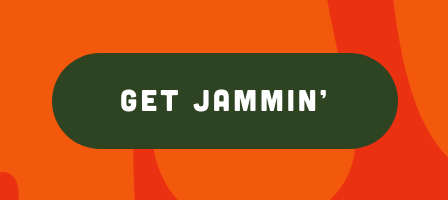
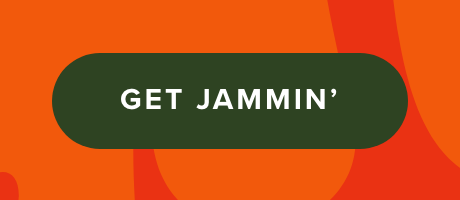
QA: all pill buttons take Proxima Nova
Get Jammin' joins Our Story in the body face so the two match, per the
client. That is also the consistent reading of the global row's unstruck
tail -- "includes button text" -- alongside the About CVR row naming Our
Story specifically.

Set on the shared pill() helper rather than per-button. The previous pass
overrode Our Story alone and the two pills visibly disagreed; putting it
in one place means they cannot drift apart again.

Overrides the Figma, which binds Cubano-Regular to both. QA is the later
record and the client has ruled it wins.

Store Locator picked up a real fix on the way. It was asking for weight
800, which the Adobe kit does not carry, so the browser synthesised it.
The design binds ProximaNova-Bold at 700; it now renders the actual
weight rather than a faux-bold approximation. All three pills agree.

Headings are untouched and remain Cubano -- checked, not assumed.
"Explore Jammy" on the homepage stays DIN Condensed: QA item 1 asks that
button to match the site's other buttons, a different instruction.

123/123 assertions, plus the copy audit at 5/5.

diff --git a/components/jammy/JammyLanding.js b/components/jammy/JammyLanding.js
@@ -100,6 +100,17 @@ const FAQS = [
   },
 ];
 
+/* QA (global): "Fonts should be Proxima Nova and Cubano throughout" -- the
+   struck-through row keeps an unstruck tail, "includes button text". Read with
+   the About CVR row ("Our Story button text should be Proxima Nova"), that
+   puts the pill buttons in the body face.
+
+   This overrides the Figma, which binds Cubano-Regular to both Our Story and
+   Get Jammin'. QA is the later record and the client has ruled it wins.
+
+   Set here rather than per-button so the pills stay matched: an earlier pass
+   changed only Our Story and the two visibly disagreed. Store Locator is
+   ProximaNova-Bold in the design, so all three now agree. */
 const pill = (bg = C.forest) => ({
   display: "inline-flex",
   alignItems: "center",
@@ -109,7 +120,8 @@ const pill = (bg = C.forest) => ({
   borderRadius: 999,
   background: bg,
   color: "#fff",
-  fontFamily: DISPLAY,
+  fontFamily: BODY,
+  fontWeight: 700,
   fontSize: 15,
   letterSpacing: "1.5px",
   textTransform: "uppercase",
@@ -270,11 +282,12 @@ export function JammyLanding() {
             href="/store-locator"
             data-lift="1"
             style={{
+              // Face and weight come from pill(). This asked for 800, which
+              // the kit does not carry -- the browser was synthesising it.
+              // The Figma binds ProximaNova-Bold here, which is 700.
               ...pill(),
               height: 46,
               padding: "0 30px",
-              fontFamily: BODY,
-              fontWeight: 800,
             }}
           >
             Store Locator
@@ -1255,23 +1268,12 @@ export function JammyLanding() {
             should be easier, exciting, and a lot more fun.
           </p>
           {/* QA (About CVR): "Our Story button text should be Proxima Nova."
-              The Figma binds Cubano-Regular to this node, but QA is the later
-              record and overrides the design file where they disagree.
-
-              Note the knock-on: Get Jammin' is also Cubano-Regular in the
-              design, so this button no longer matches it. That is a real
-              consequence of the instruction, not an oversight -- raised with
-              NW in docs/qa-evidence/AUDIT.md. */}
+              Comes from pill() now, so every pill button matches. */}
           <a
             href="/our-family"
             data-lift="1"
             className="jammy-reveal"
-            style={{
-              ...pill(),
-              padding: "0 38px",
-              fontFamily: BODY,
-              fontWeight: 700,
-            }}
+            style={{ ...pill(), padding: "0 38px" }}
           >
             Our Story
           </a>

diff --git a/scripts/qa/jammy/item17.js b/scripts/qa/jammy/item17.js
@@ -21,20 +21,20 @@ const R=[];const ck=(n,p,d='')=>{R.push(p);console.log(`${p?'PASS':'FAIL'}  ${n}
             jamFf:jam?getComputedStyle(jam).fontFamily.split(',')[0]:null,
             slFf:sl?getComputedStyle(sl).fontFamily.split(',')[0]:null};
   });
-  // QA: "Our Story button text should be Proxima Nova." The Figma binds
-  // Cubano-Regular to this node, but QA is the later record and overrides the
-  // design file. Knock-on: Get Jammin' is also Cubano-Regular in the design,
-  // so the two pills no longer match -- a consequence of the instruction,
-  // raised with NW rather than silently reconciled.
+  // QA's global row keeps an unstruck tail, "includes button text", and the
+  // About CVR row names Our Story specifically. Applied to pill() so every
+  // pill button takes Proxima Nova and they stay matched. Overrides the
+  // Figma, which binds Cubano-Regular to Our Story and Get Jammin'.
   ck('Our Story is Proxima Nova (QA over Figma)', d.ff==='proxima-nova', d.ff);
   ck('rendered bold', +d.fw>=700, d.fw);
   ck('keeps the pill size', d.fs==='15px', d.fs);
   ck('keeps its uppercase treatment', d.tt==='uppercase', d.tt);
   ck('keeps the forest ground', d.bg==='rgb(46, 67, 34)', d.bg);
   ck('still links to /our-family', d.href==='/our-family', d.href);
-  ck('Get Jammin stays Cubano (its QA row is about the link, not the font)',
-     d.jamFf==='cubano', d.jamFf);
-  ck('Store Locator unchanged', d.slFf==='proxima-nova', d.slFf);
+  ck('Get Jammin is Proxima Nova too, so the pills match',
+     d.jamFf==='proxima-nova', d.jamFf);
+  ck('Store Locator also Proxima Nova (all three pills agree)',
+     d.slFf==='proxima-nova', d.slFf);
   await b.close();
   const f=R.filter(x=>!x).length;
   console.log(`\n${R.length-f}/${R.length} passed`);

diff --git a/docs/qa-evidence/AUDIT.md b/docs/qa-evidence/AUDIT.md
@@ -109,11 +109,25 @@ Copy shows the same pattern. The Figma hero line reads *"…that **can make** an
 meal a moment"*; QA specifies *"…that **makes** any meal a moment."* The page
 follows QA, and the superseded wording is asserted absent.
 
-**One consequence to flag to NW.** Both pill buttons are `Cubano-Regular` in
-the design and match each other. Applying QA's Our Story instruction makes them
-differ, because no QA row asks the same of Get Jammin' — its only row is about
-the link destination and is struck through. This is followed as instructed; if
-the two are meant to stay matched, Get Jammin' needs the same change.
+**Resolved: all three pill buttons take Proxima Nova.** Applying QA's Our Story
+instruction alone made the two Jammy pills differ, since the design has both as
+`Cubano-Regular`. The client's call was to bring Get Jammin' across too, which
+is also the consistent reading of the global row's unstruck tail — *"includes
+button text"*. Set on the shared `pill()` helper rather than per-button, so
+they cannot drift apart again.
+
+| Button | Was | Now | Design |
+|---|---|---|---|
+| Our Story | Cubano | Proxima Nova 700 | `Cubano-Regular` (overridden) |
+| Get Jammin' | Cubano | Proxima Nova 700 | `Cubano-Regular` (overridden) |
+| Store Locator | Proxima Nova 800 | Proxima Nova 700 | `ProximaNova-Bold` (now matched) |
+
+Store Locator was asking for weight 800, which the Adobe kit does not carry —
+the browser was synthesising it. The design binds `ProximaNova-Bold`, which is
+700, so it now renders the real weight.
+
+"Explore Jammy" on the homepage stays DIN Condensed: QA item 1 asks that button
+to match *the site's* other buttons, which is a different instruction.
 
 ### Colour
 
